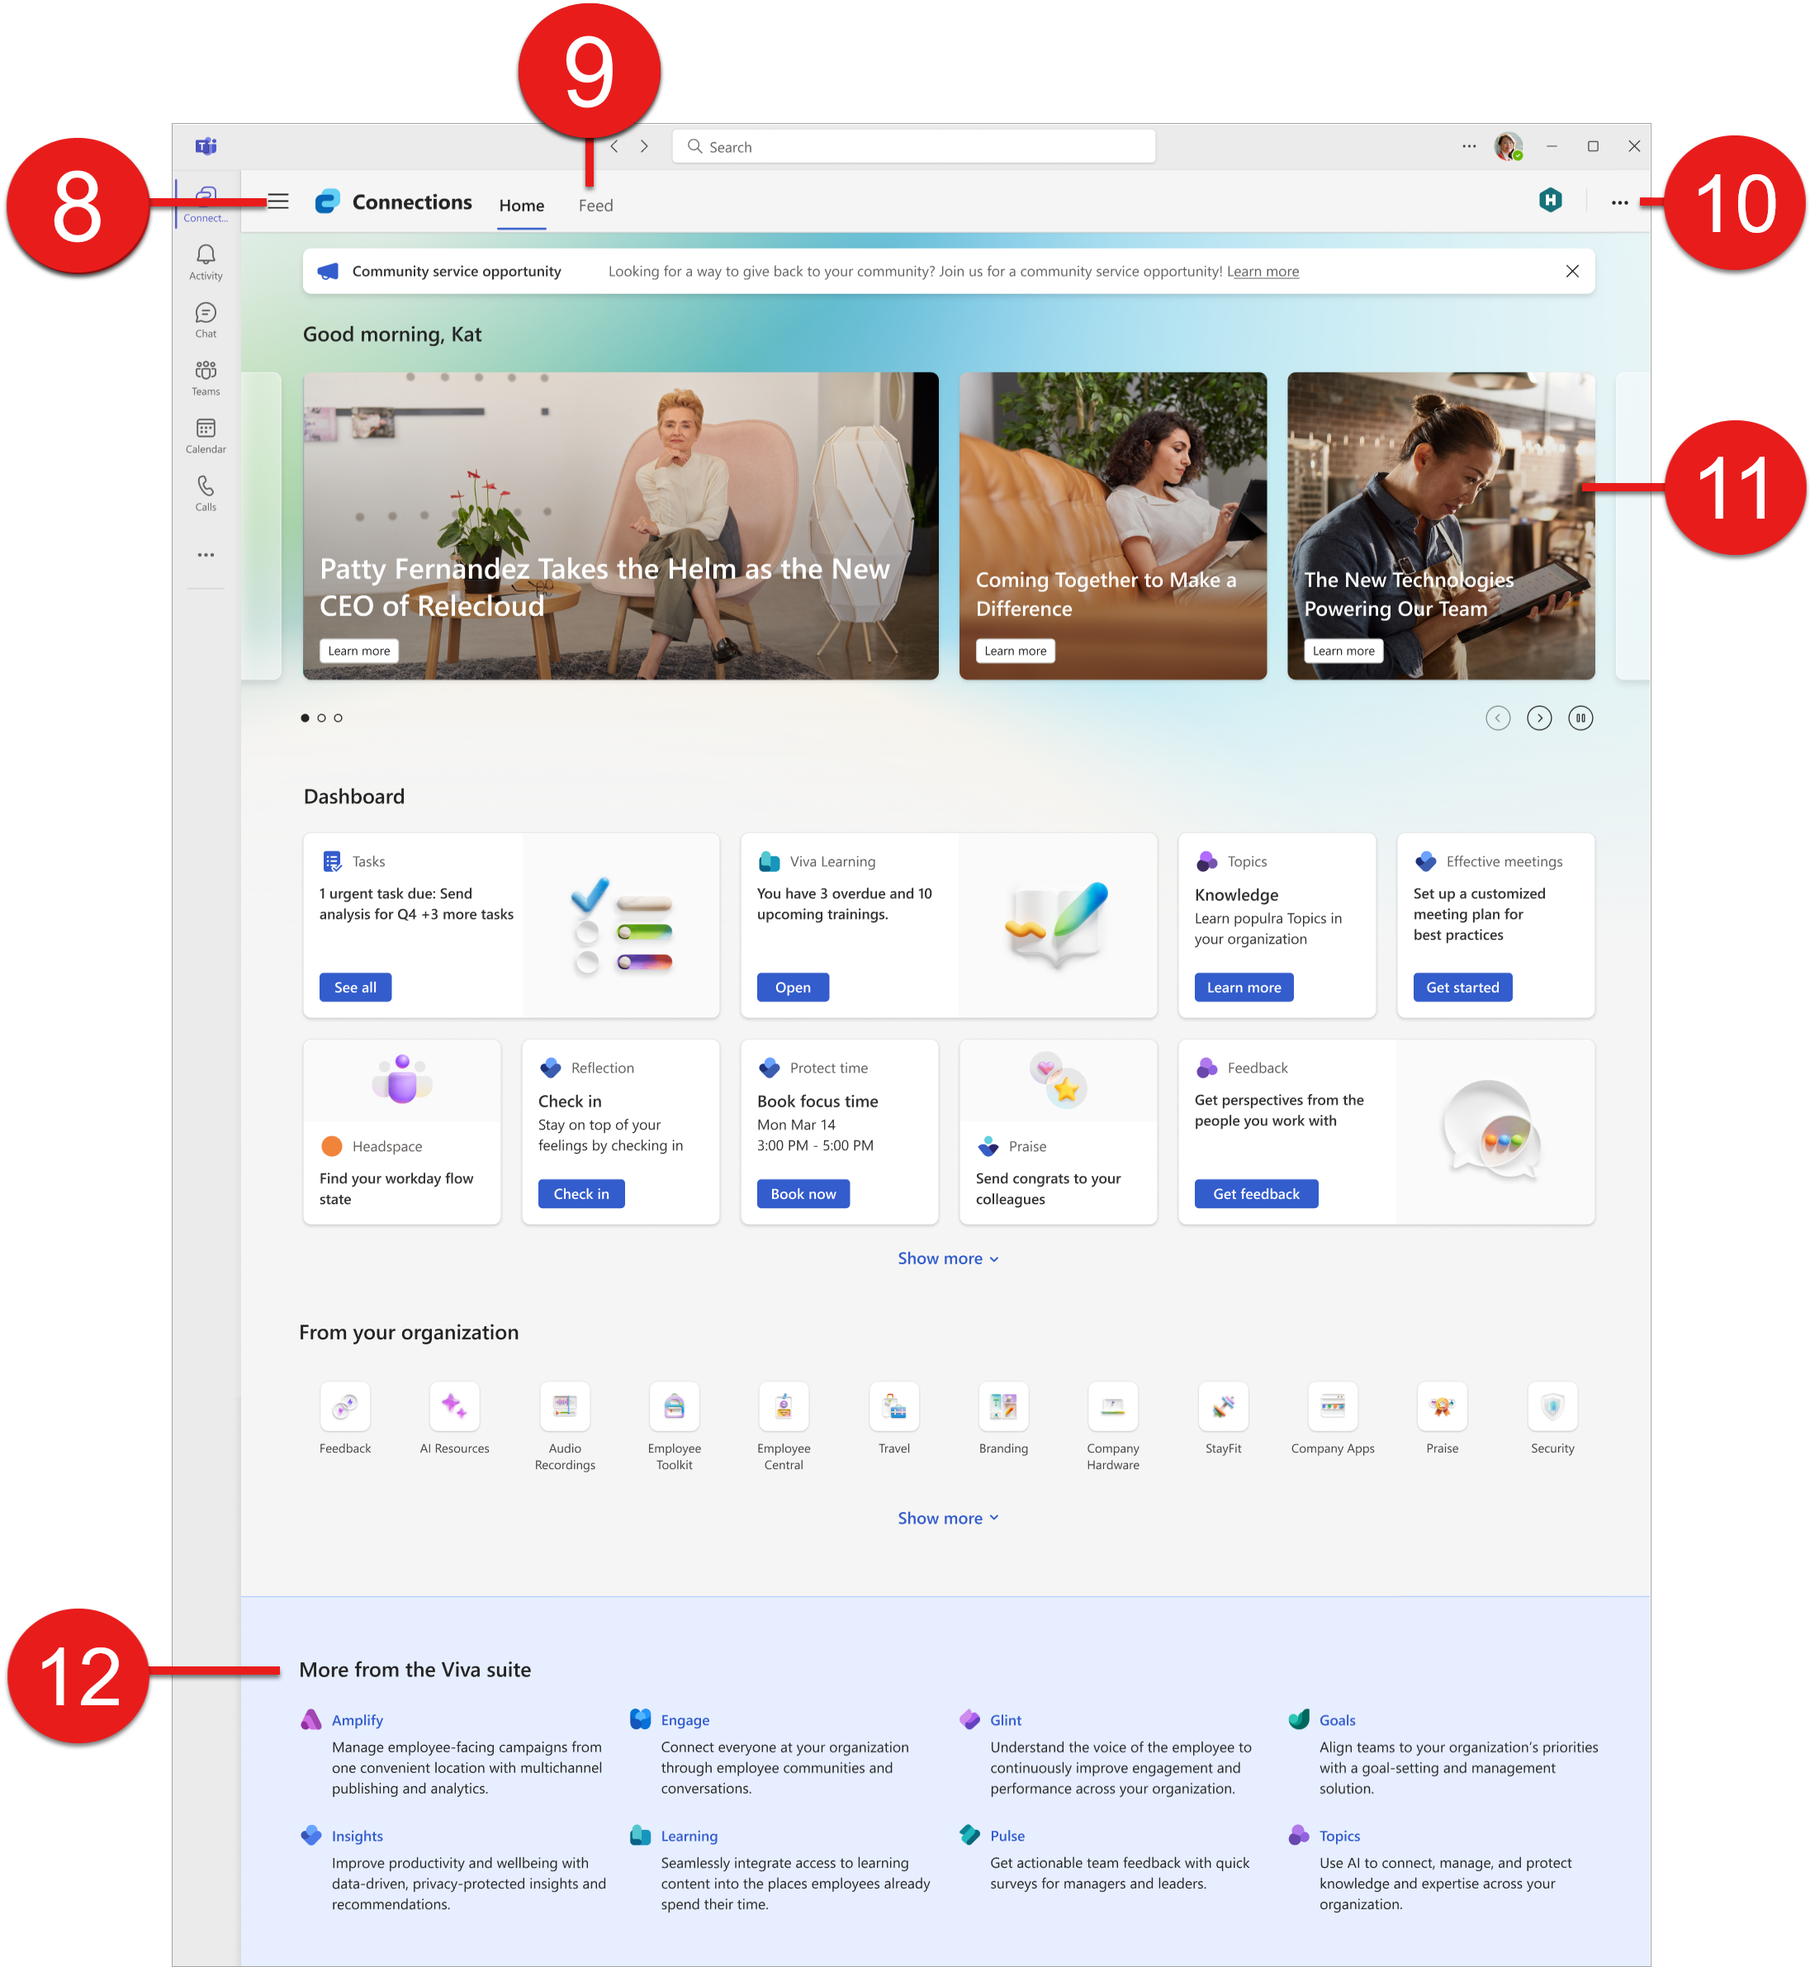
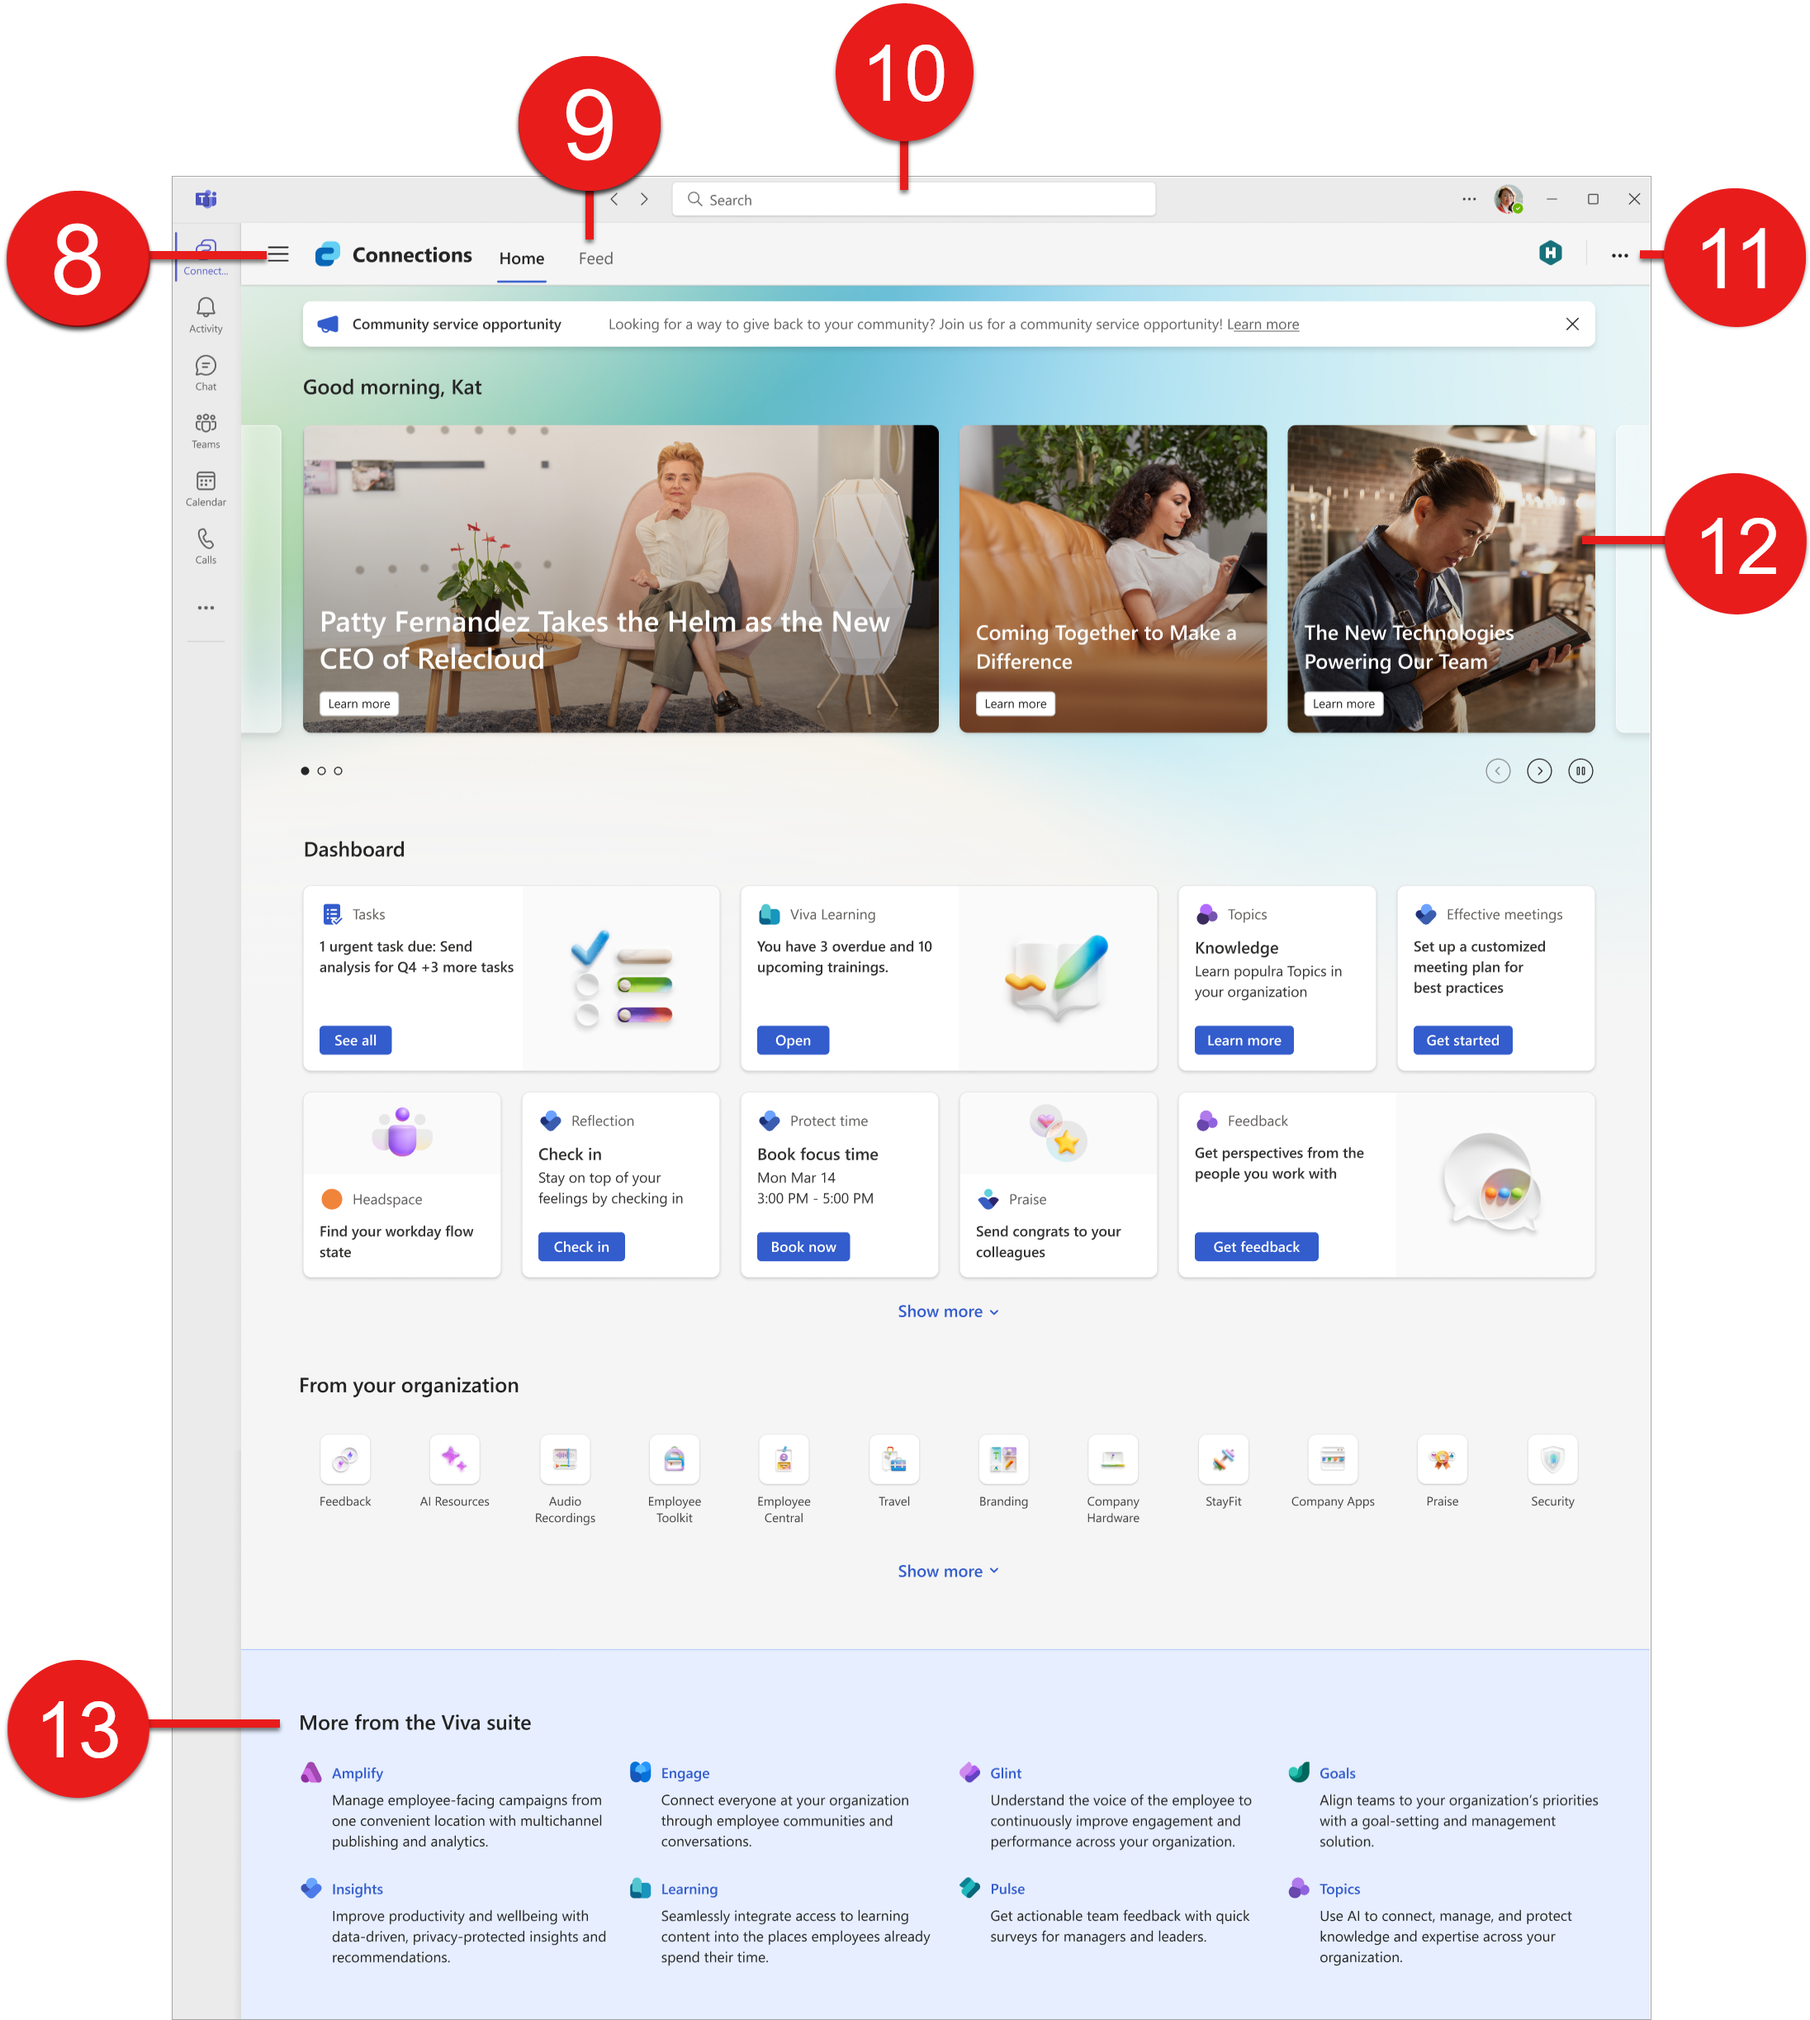
Added scoped search
- Added entry on scoped search to the list of non-customizable elements.
- updated screenshot

diff --git a/Viva/connections/edit-viva-home.md b/Viva/connections/edit-viva-home.md
@@ -147,19 +147,27 @@ Apply **Audience targeting** so this card is filtered to specific roles, regions
 
 9. **Feed tab:** Content in the Feed is dynamically generated based on user interests, organizational news, and industry news. [Learn more about how content in the Feed is sourced](/microsoft-365/ms-feed/m365-feed).
 
-10. **Ellipses menu:** Access more information about the Connections experience depending on your level of permissions.
-
-11. **News spotlight:** Content in the banner is dynamically displayed based on content from the home site. A future update is planned to include updates from organizational news sites.
+10. **Scoped Search**: Uses have the option to search within Viva Connections when accessing the search bar within their Connections experience. As users type, the option to search for results within Connections (or Teams) will display.
 
     > [!NOTE]
-    >
-    > A future update is planned to make the News spotlight customizable.
+> 
+> - Scoped Search is currently only available in Teams classic to all customers. A future update is planned to bring this feature to the [new Teams client](/microsoftteams/new-teams-desktop-admin).
+> - Scoped search in the new Teams client is not available for GCC and GCC High customers, and will be made available with a future update.
+
+11. **Ellipses menu:** Access more information about the Connections experience depending on your level of permissions.
+
+12. **News spotlight:** Content in the banner is dynamically displayed based on content from the home site. A future update is planned to include updates from organizational news sites.
+
+    > [!NOTE]
+>
+> A future update is planned to make the News spotlight customizable.
 
 12. **Viva navigational bar:** This provides an opportunity to discover [more Viva experiences](https://support.microsoft.com/topic/introducing-microsoft-viva-3c1012cb-6c85-4d49-bd7f-b18a6e7873e0) and gets automatically generated when Viva licenses are detected.
 
 ## Customize the app icon and label in the Teams app bar
 
 > [!NOTE]
+>
 > For customers with at least one F license:  
 >
 > - The Viva Connections app is automatically pinned in the Teams app bar. If you don’t want the app pre-pinned, either [turn off tailored apps for frontline workers](/microsoft-365/frontline/pin-teams-apps-based-on-license), change the [app settings](/microsoftteams/teams-custom-app-policies-and-settings), or [edit how apps in Teams are managed](/microsoftteams/manage-apps).
